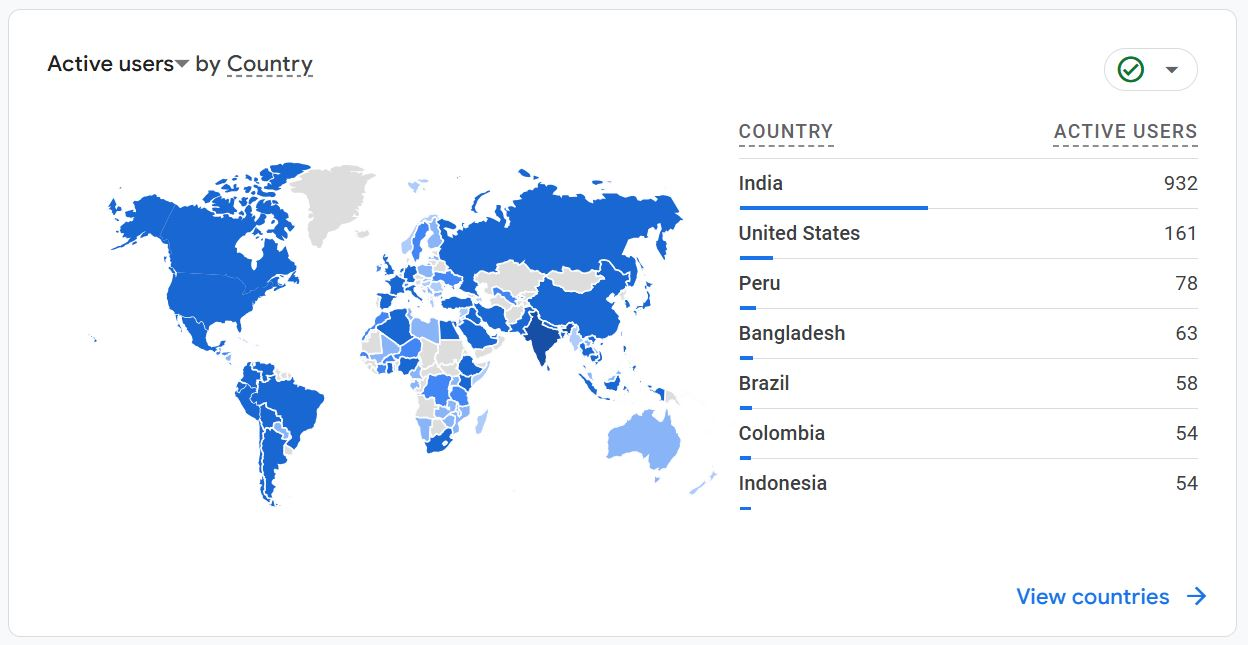
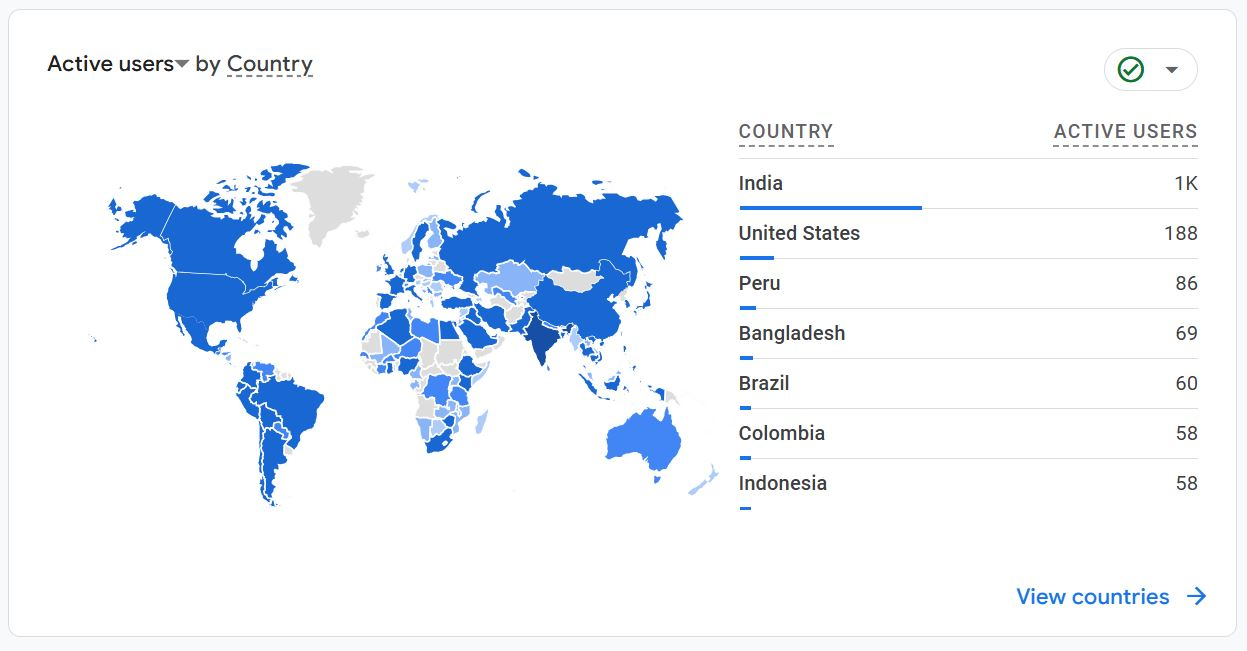
fix

diff --git a/index.html b/index.html
@@ -968,7 +968,7 @@
                             <div class="youtube-stat-card">
                                 <i class="fas fa-user-plus"></i>
                                 <div>
-                                    <span class="counter-value" data-target="360">0</span>
+                                    <span class="counter-value" data-target="375">0</span>
                                     <span class="stat-label">Subscribers</span>
                                 </div>
                             </div>
@@ -976,7 +976,7 @@
                             <div class="youtube-stat-card">
                                 <i class="fas fa-eye"></i>
                                 <div>
-                                    <span class="counter-value" data-target="5000">0</span>
+                                    <span class="counter-value" data-target="5200">0</span>
                                     <span class="stat-label">Views</span>
                                 </div>
                             </div>
@@ -1031,13 +1031,13 @@
                         <div class="stats-grid-detailed">
                             <div class="stat-item">
                                 <i class="fas fa-users"></i>
-                                <span class="stat-value">2,250+</span>
+                                <span class="stat-value">2,550+</span>
                                 <span class="stat-label">Users</span>
                             </div>
 
                             <div class="stat-item">
                                 <i class="fas fa-globe-americas"></i>
-                                <span class="stat-value">109+</span>
+                                <span class="stat-value">113+</span>
                                 <span class="stat-label">Countries</span>
                             </div>
                             <div class="stat-item">
@@ -1102,21 +1102,21 @@
                     <div class="stat-item">
                         <i class="fas fa-users" style="font-size: 2rem;"></i>
                         <div>
-                            <span class="counter-value" data-target="2285">0</span>
+                            <span class="counter-value" data-target="2540">0</span>
                             <span class="stat-label">Active Users</span>
                         </div>
                     </div>
                     <div class="stat-item">
                         <i class="fas fa-user-plus" style="font-size: 2rem;"></i>
                         <div>
-                            <span class="counter-value" data-target="2293">0</span>
+                            <span class="counter-value" data-target="2550">0</span>
                             <span class="stat-label">New Users</span>
                         </div>
                     </div>
                     <div class="stat-item">
                         <i class="fas fa-globe-americas" style="font-size: 2rem;"></i>
                         <div>
-                            <span class="counter-value" data-target="109">0</span>
+                            <span class="counter-value" data-target="113">0</span>
                             <span class="stat-label">Countries</span>
                         </div>
                     </div>
